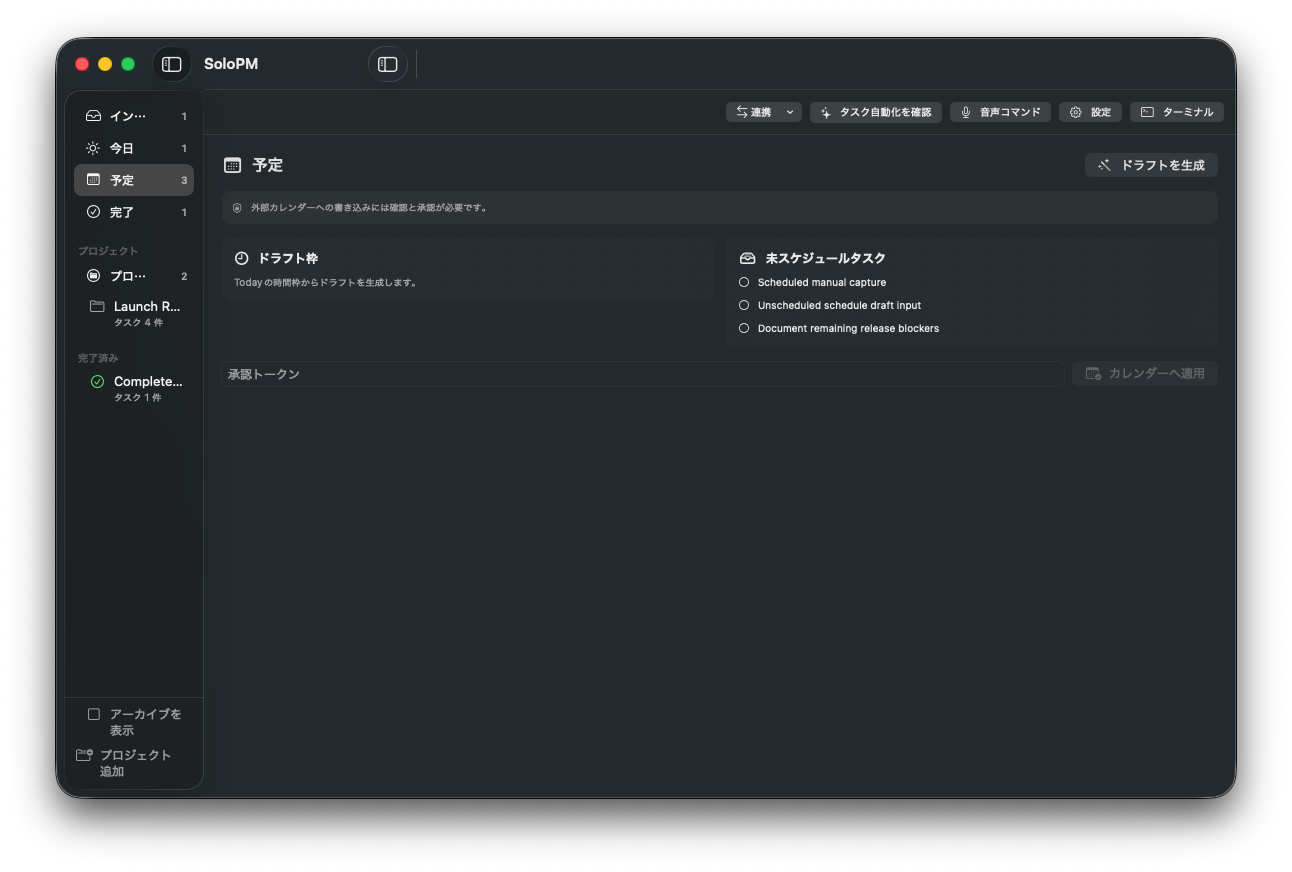
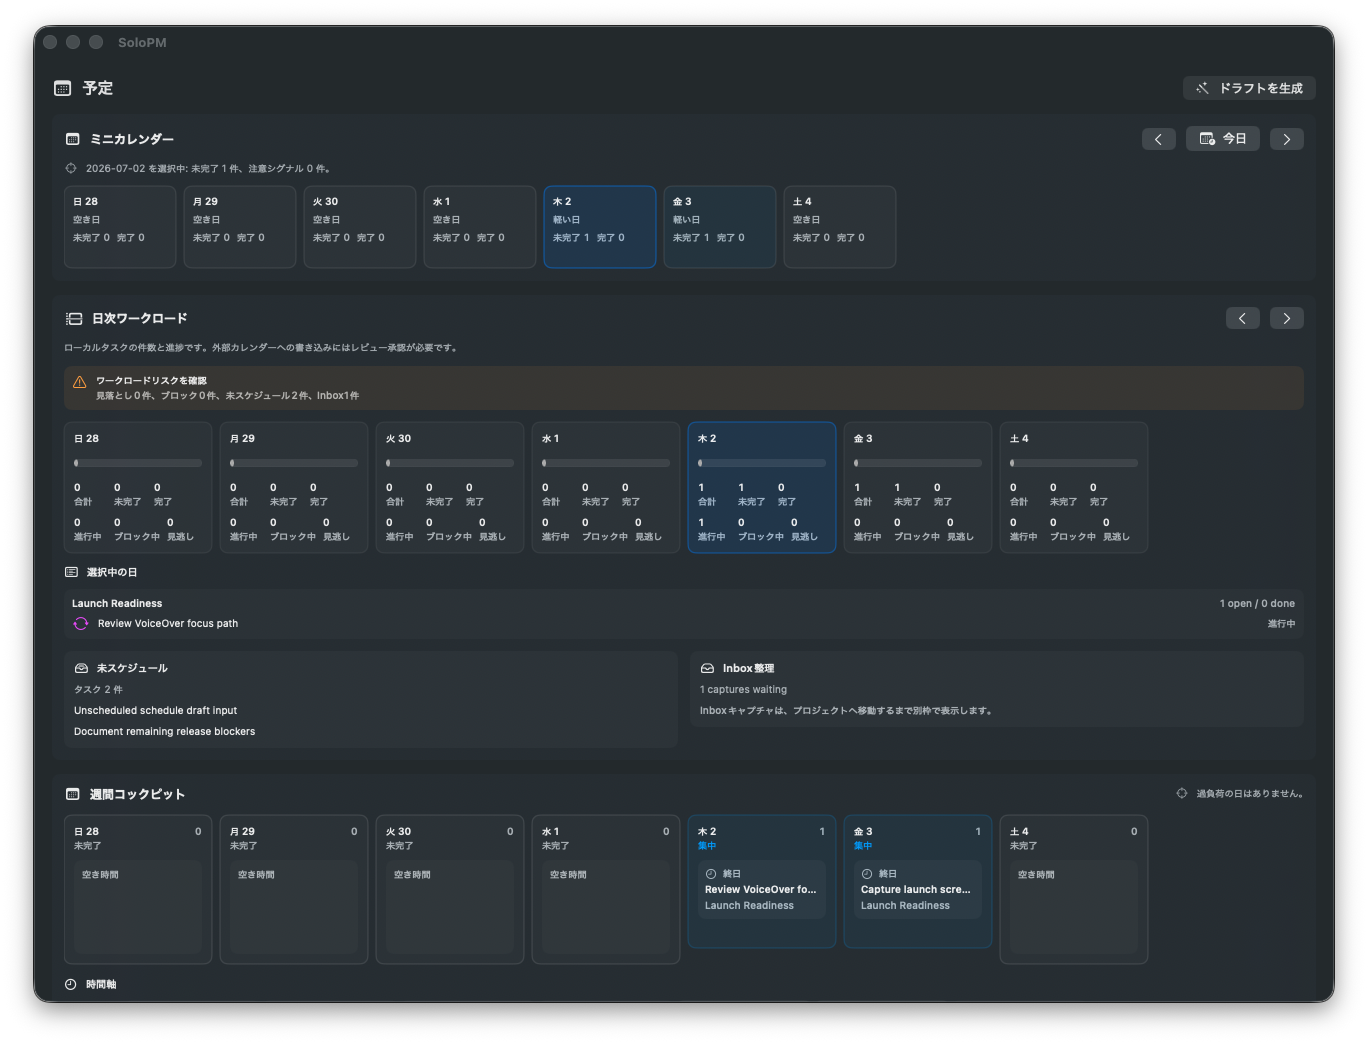
Add Schedule cockpit screenshot evidence

diff --git a/docs/release/evidence/schedule-cockpit-screenshots.md b/docs/release/evidence/schedule-cockpit-screenshots.md
@@ -1,0 +1,21 @@
+# Schedule Cockpit Screenshot Evidence
+
+Generated with `script/capture_ui_evidence.sh --schedule-cockpit`.
+This targeted evidence covers issue #9 Schedule cockpit light/dark closeout without rewriting the full release screenshot set.
+
+- Generated at: `2026-07-02T10:52:53Z`
+- Source commit: `a12afebb`
+- Screen Recording preflight: `script/capture_ui_evidence.sh --doctor`
+- Target markers: `schedule-workflow`, `schedule-week-grid`, `schedule-week-time-axis-grid`
+
+## Schedule Cockpit
+
+- Light: `docs/release/evidence/ui-screenshots/schedule-light.png`
+- Dark: `docs/release/evidence/ui-screenshots/schedule-dark.png`
+
+## Guardrails
+
+- The cockpit is seeded from local ProjectBoard tasks in an isolated SQLite database.
+- Opening the cockpit does not enqueue or execute external Calendar or Reminder writes.
+- API keys, provider tokens, OAuth tokens, calendar contents, and customer file contents are not captured.
+- The app runs with `SOLOPM_DISABLE_KEYCHAIN_SECRET_STORE=1`, an explicit isolated SQLite database, and env-driven Schedule selection.
